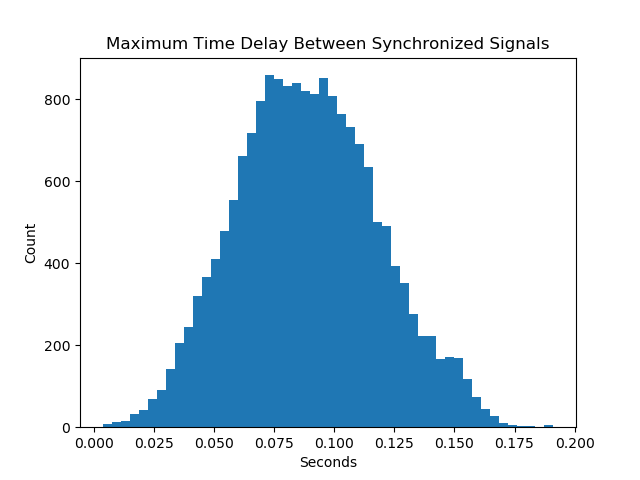
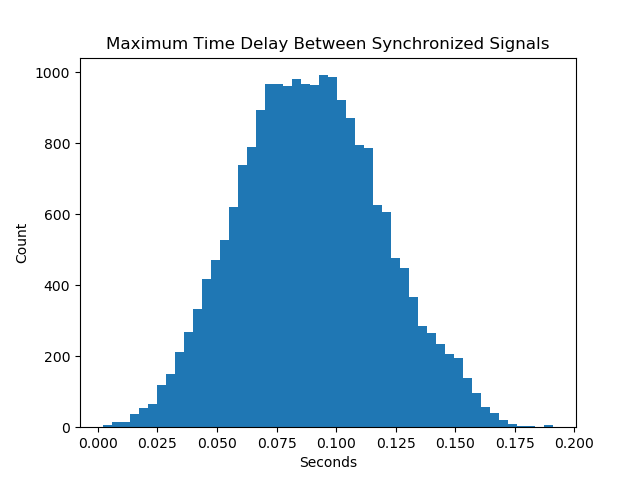
added analytics for whole dataset

diff --git a/classifier/train.py b/classifier/train.py
@@ -1,0 +1,48 @@
+import numpy as np
+import torch.utils.data
+from torch.utils.data.sampler import SubsetRandomSampler
+from torchvision import datasets, transforms
+
+data_directory = '/home/farnoosh/offroad_autonomous_navigation/classifier/dataset'
+np.random.seed(0)
+batch_size = 64
+
+data_transforms = {
+    'train': transforms.Compose([
+        transforms.RandomResizedCrop(224),
+        transforms.RandomHorizontalFlip(),
+        transforms.ToTensor(),
+        transforms.Normalize([0.485, 0.456, 0.406], [0.229, 0.224, 0.225])
+    ]),
+    'val': transforms.Compose([
+        transforms.Resize(256),
+        transforms.CenterCrop(224),
+        transforms.ToTensor(),
+        transforms.Normalize([0.485, 0.456, 0.406], [0.229, 0.224, 0.225])
+    ]),
+    'test': transforms.Compose([
+        transforms.Resize(256),
+        transforms.CenterCrop(224),
+        transforms.ToTensor(),
+        transforms.Normalize([0.485, 0.456, 0.406], [0.229, 0.224, 0.225])
+    ])
+}
+image_datasets = {x: datasets.ImageFolder(data_directory,
+                                          data_transforms[x])
+                  for x in ['train', 'val', 'test']}
+
+N = len(image_datasets['train'])
+indices = list(range(N))
+train_split = int(np.floor(0.64 * N))
+val_split = train_split + int(np.floor(0.16 * N))
+np.random.shuffle(indices)
+
+train_sampler = SubsetRandomSampler(indices[:train_split])
+val_sampler = SubsetRandomSampler(indices[train_split:val_split])
+test_sampler = SubsetRandomSampler(indices[val_split:])
+
+train_loader = torch.utils.data.DataLoader(image_datasets['train'], sampler=train_sampler, batch_size=batch_size)
+val_loader = torch.utils.data.DataLoader(image_datasets['val'], sampler=val_sampler, batch_size=batch_size)
+test_loader = torch.utils.data.DataLoader(image_datasets['test'], sampler=test_sampler, batch_size=64)
+
+print(len(train_loader.dataset))

diff --git a/extract_dataset/analyze_annotations_per_bag.py b/extract_dataset/analyze_annotations_per_bag.py
@@ -7,20 +7,29 @@ load_directory = '/home/farnoosh/rc_car/annotation_data_{batch_num}/'
 save_directory = '/home/farnoosh/rc_car/src/extract_dataset/plots/'
 labels = ['Tree', 'Other Obstacles', 'Human', 'Waterhole', 'Mud', 'Jump', 'Traversable Grass', 'Smooth Road', 'Wet Leaves']
 num_batches = 6
-label_count = np.zeros(len(labels))
+
+bag_dist = {}
+
 for batch in range(num_batches):
     for filename in os.listdir(load_directory.format(batch_num=batch)):
         f = os.path.join(load_directory.format(batch_num=batch), filename)
         # checking if it is a file
         if os.path.isfile(f):
+            bag = filename[6:-9]
             with open(f) as file:
                 label = int(file.readline())
-                label_count[label] += 1
+                if bag in bag_dist.keys():
+                    bag_dist[bag][label] += 1
+                else:
+                    bag_dist[bag] = np.zeros(len(labels))
+                    bag_dist[bag][label] += 1
 
-plt.figure(figsize=(15, 6))
-plt.bar(labels, label_count)
-plt.xlabel('Count')
-plt.title('Label distribution')
+for key, value in bag_dist.items():
+    plt.plot(value, label=key, marker='.')
+    break
+plt.legend()
+plt.show()
 
-# plt.show()
-plt.savefig(save_directory + 'label_dist.png')
+
+
+

diff --git a/classifier/format_data.py b/classifier/format_data.py
@@ -1,0 +1,15 @@
+import os
+import shutil
+
+image_directory = '/home/farnoosh/rc_car/image_data_khalil/'
+label_directory = '/home/farnoosh/rc_car/annotations_khalil/'
+dataset_directory = '/home/farnoosh/offroad_autonomous_navigation/classifier/dataset'
+
+for filename in os.listdir(image_directory):
+    f = os.path.join(label_directory, filename.replace(filename[len(filename) - 3:], 'txt'))
+    # checking if it is a file
+    if os.path.isfile(f):
+        with open(f) as file:
+            label = file.readline() + '/'
+            copy_path = os.path.join(dataset_directory, label)
+            shutil.copy(os.path.join(image_directory, filename), os.path.join(copy_path, filename))

diff --git a/extract_dataset/rc_subscriber_node.py b/extract_dataset/rc_subscriber_node.py
@@ -35,7 +35,7 @@ class RCDataSubscriber:
         self.gps_subscriber = rospy.Subscriber('/gps', NavSatFix, self.gps_callback)
 
         self.file_counter = 0
-        self.save = False
+        self.save = True
         self.bag_name = bag_name
 
         # For verifying synchronization
